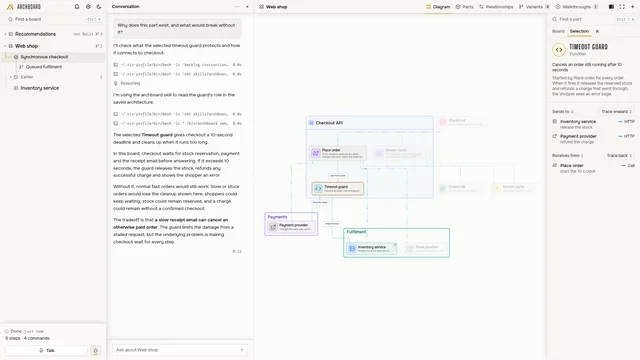
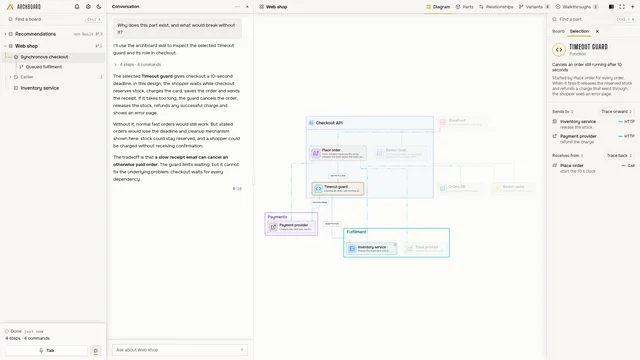
docs(readme): make the ask clip again, lossless, and attach it
The ask clip is filmed again over a real Codex conversation, so it no longer carries the ghosts of the lossy encoder, and the README points at the new attachment.

Changed region(s): [[0.1562, 0.1222, 0.375, 0.7028]]

diff --git a/README.md b/README.md
@@ -142,7 +142,7 @@ One map, from the whole system down to the file. Boards link to boards: hover a 
 
 Select a part and ask. The Codex agent in the conversation reads the board and your selection, and answers from the architecture, not from the pixels. Press **Talk** to ask out loud instead: the voice hands your question to a Codex agent that reads the boards, then says the answer back.
 
-<img src="https://github.com/user-attachments/assets/f890e8dd-05d2-4a3d-a6c6-656121b296ae" width="100%" alt="The Timeout guard is selected. A question about why this part exists and what breaks without it is typed into the composer of the conversation, which opens beside the navigator. The conversation fills with an answer drawn from the board.">
+<img src="https://github.com/user-attachments/assets/23cd59b4-966f-4ee3-b7db-f6535ba5d650" width="100%" alt="The Timeout guard is selected. A question about why this part exists and what breaks without it is typed into the composer of the conversation, which opens beside the navigator. The conversation fills with an answer drawn from the board.">
 
 <p align="center"><sub>A real answer from a Codex agent, typed in the conversation. The wait for the answer is sped up.</sub></p>
 
